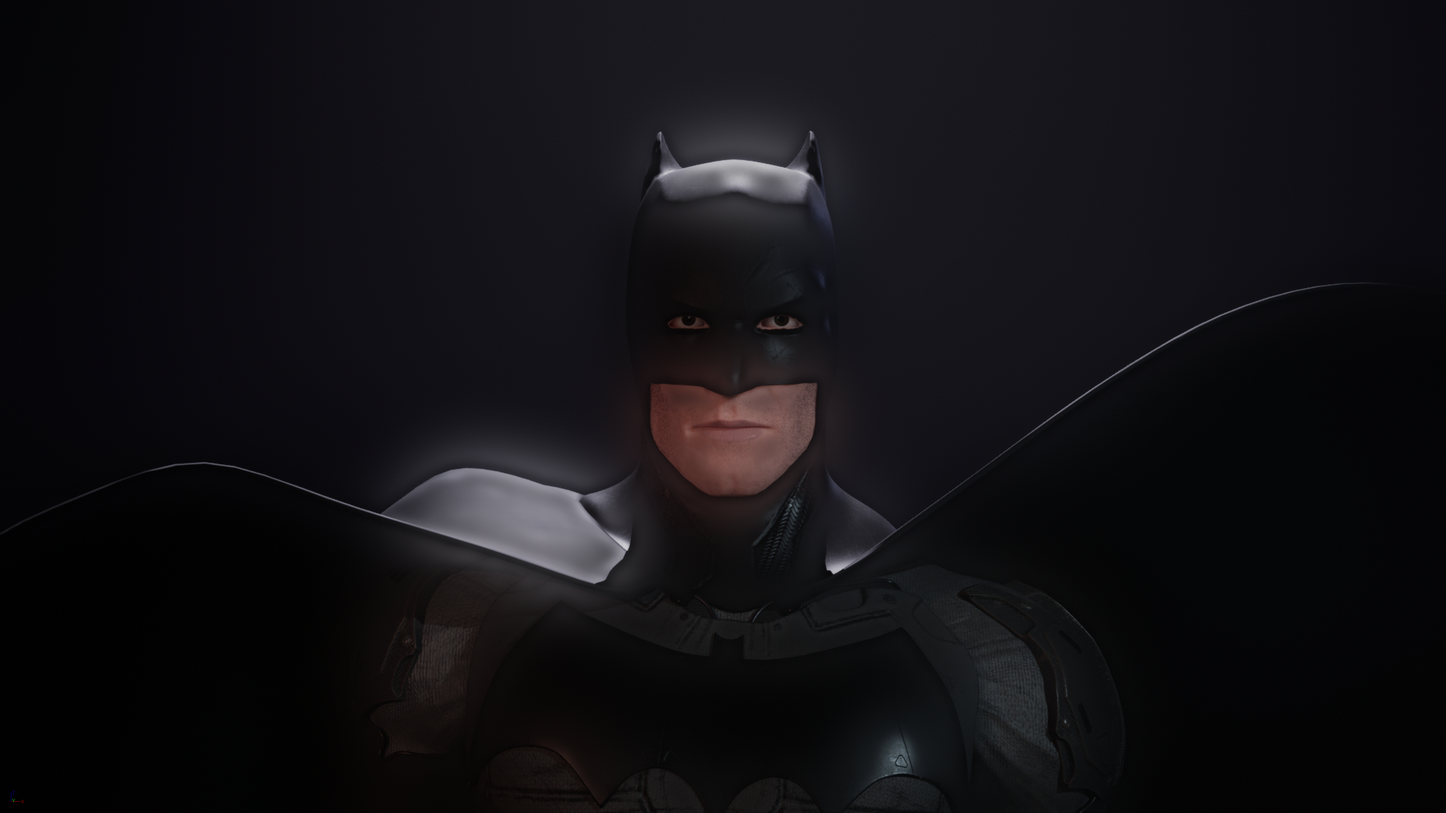
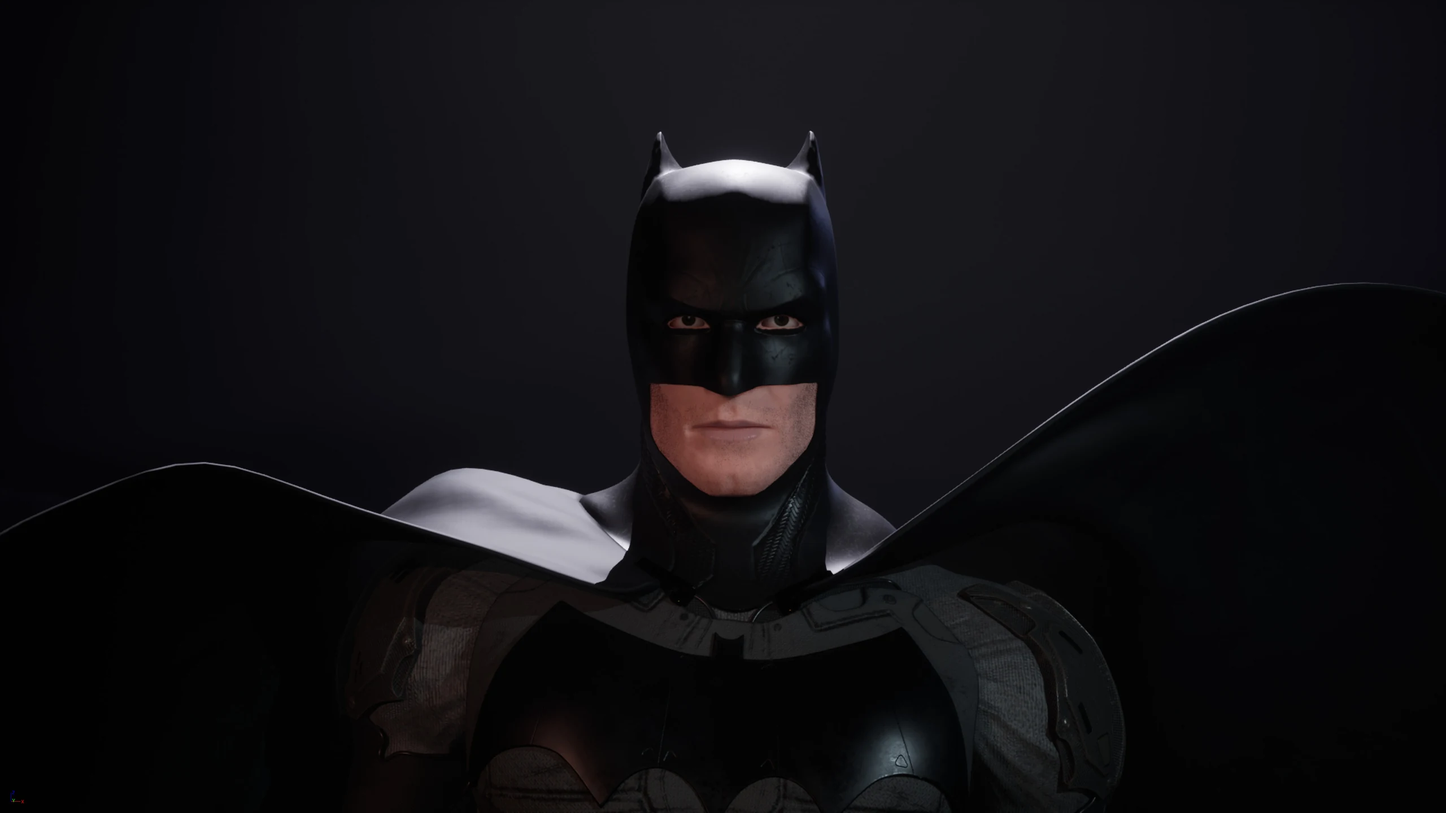
Revert Batman deband — masked blur hazed the character
The flat-region mask classified smooth cowl/cape surfaces as background
and blurred them, fogging the whole figure. Restore the q88 4k images.

Claude-Session: https://claude.ai/code/session_01He9NqtK9mh4hcbnbeGeFwa

diff --git a/app/3d-art/artData.ts b/app/3d-art/artData.ts
@@ -32,15 +32,15 @@ export const artProjects: ArtProject[] = [
     cover: "/images/artstation/batman/01.webp",
     coverAspect: 1.7778,
     assets: [
-      { type: "image", src: "/images/artstation/batman/01.webp", lossless: true, width: 2560, height: 1440 },
-      { type: "image", src: "/images/artstation/batman/02.webp", lossless: true, width: 2560, height: 1440 },
-      { type: "image", src: "/images/artstation/batman/03.webp", lossless: true, width: 2560, height: 1440 },
-      { type: "image", src: "/images/artstation/batman/04.webp", lossless: true, width: 2560, height: 1440 },
-      { type: "image", src: "/images/artstation/batman/05.webp", lossless: true, width: 2560, height: 1440 },
-      { type: "image", src: "/images/artstation/batman/06.webp", lossless: true, width: 2560, height: 1440 },
-      { type: "image", src: "/images/artstation/batman/07.webp", lossless: true, width: 2560, height: 1440 },
-      { type: "image", src: "/images/artstation/batman/08.webp", lossless: true, width: 2560, height: 1440 },
-      { type: "image", src: "/images/artstation/batman/09.webp", lossless: true, width: 2560, height: 1440 },
+      { type: "image", src: "/images/artstation/batman/01.webp", width: 2560, height: 1440 },
+      { type: "image", src: "/images/artstation/batman/02.webp", width: 2560, height: 1440 },
+      { type: "image", src: "/images/artstation/batman/03.webp", width: 2560, height: 1440 },
+      { type: "image", src: "/images/artstation/batman/04.webp", width: 2560, height: 1440 },
+      { type: "image", src: "/images/artstation/batman/05.webp", width: 2560, height: 1440 },
+      { type: "image", src: "/images/artstation/batman/06.webp", width: 2560, height: 1440 },
+      { type: "image", src: "/images/artstation/batman/07.webp", width: 2560, height: 1440 },
+      { type: "image", src: "/images/artstation/batman/08.webp", width: 2560, height: 1440 },
+      { type: "image", src: "/images/artstation/batman/09.webp", width: 2560, height: 1440 },
       { type: "image", src: "/images/artstation/batman/10.webp", width: 2560, height: 1440 },
       { type: "image", src: "/images/artstation/batman/11.webp", width: 2560, height: 1733 },
       { type: "image", src: "/images/artstation/batman/12.webp", width: 2560, height: 1733 },
